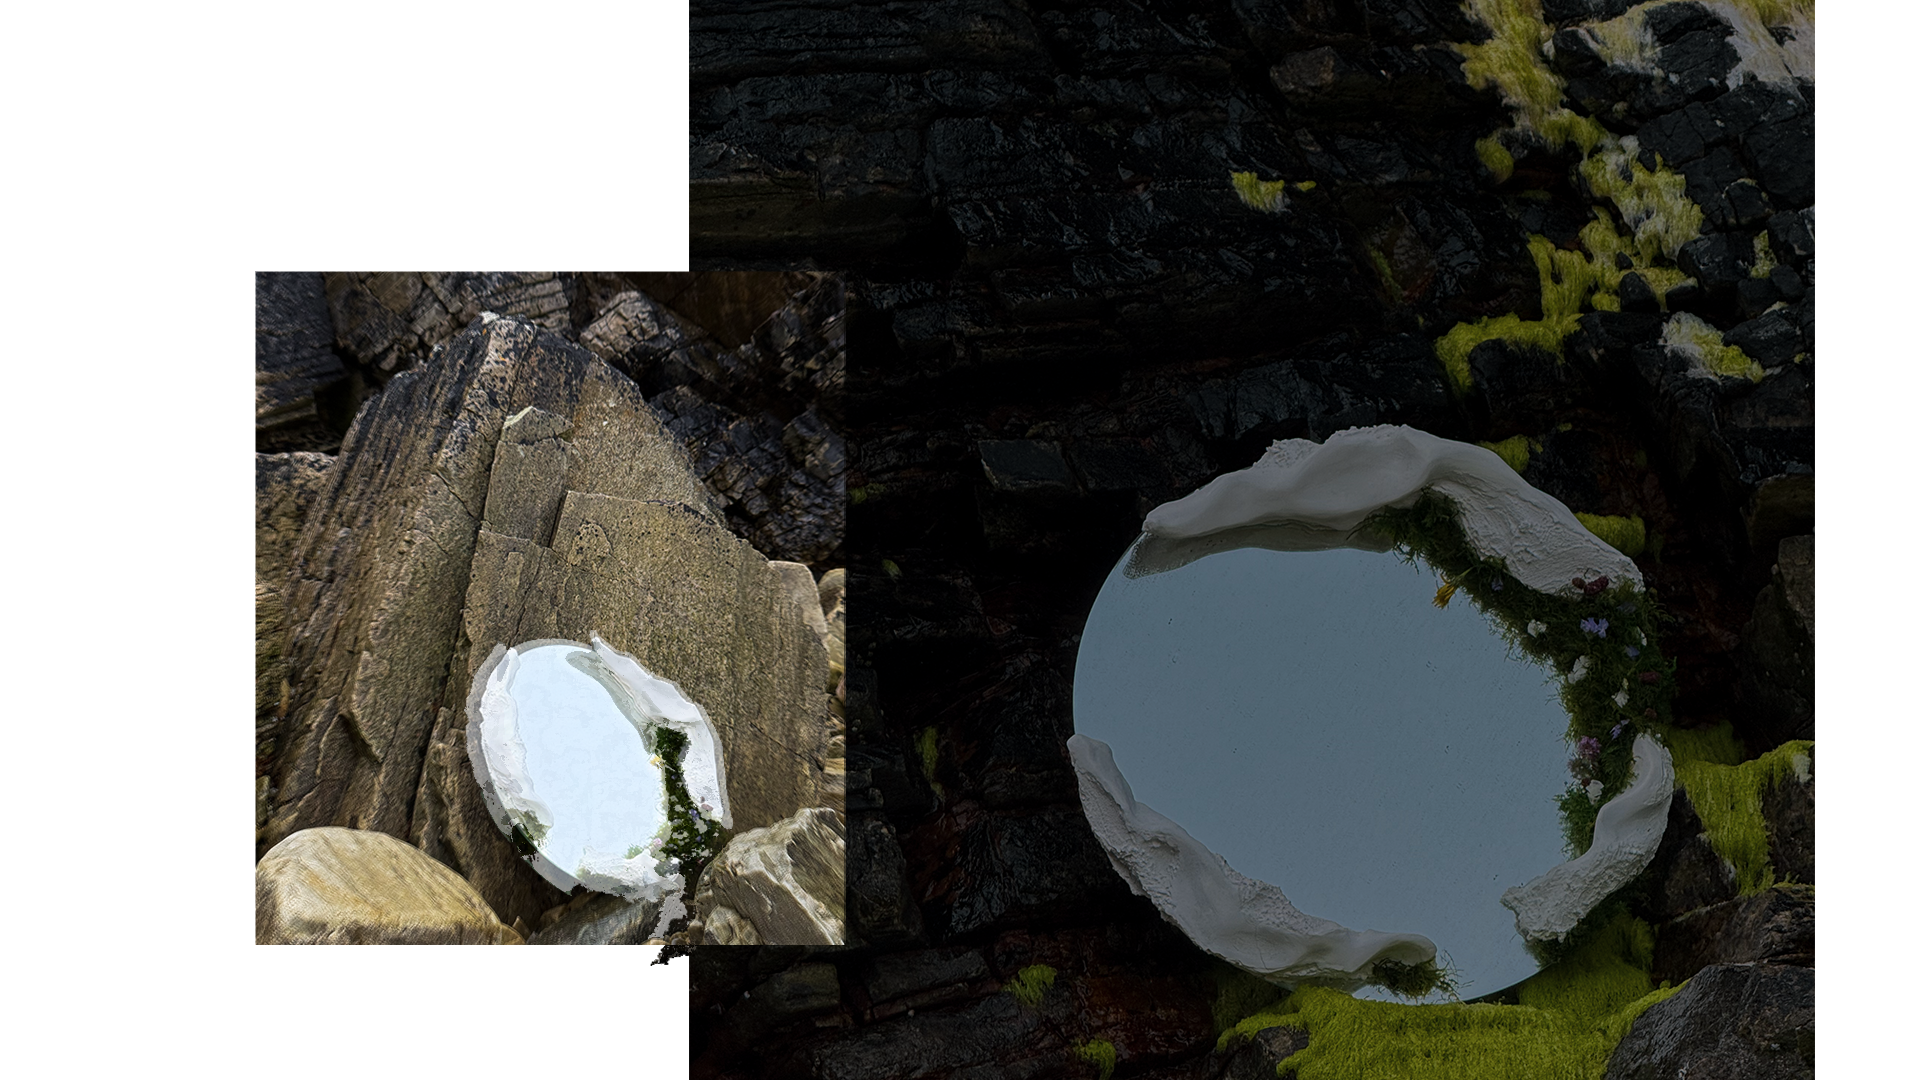
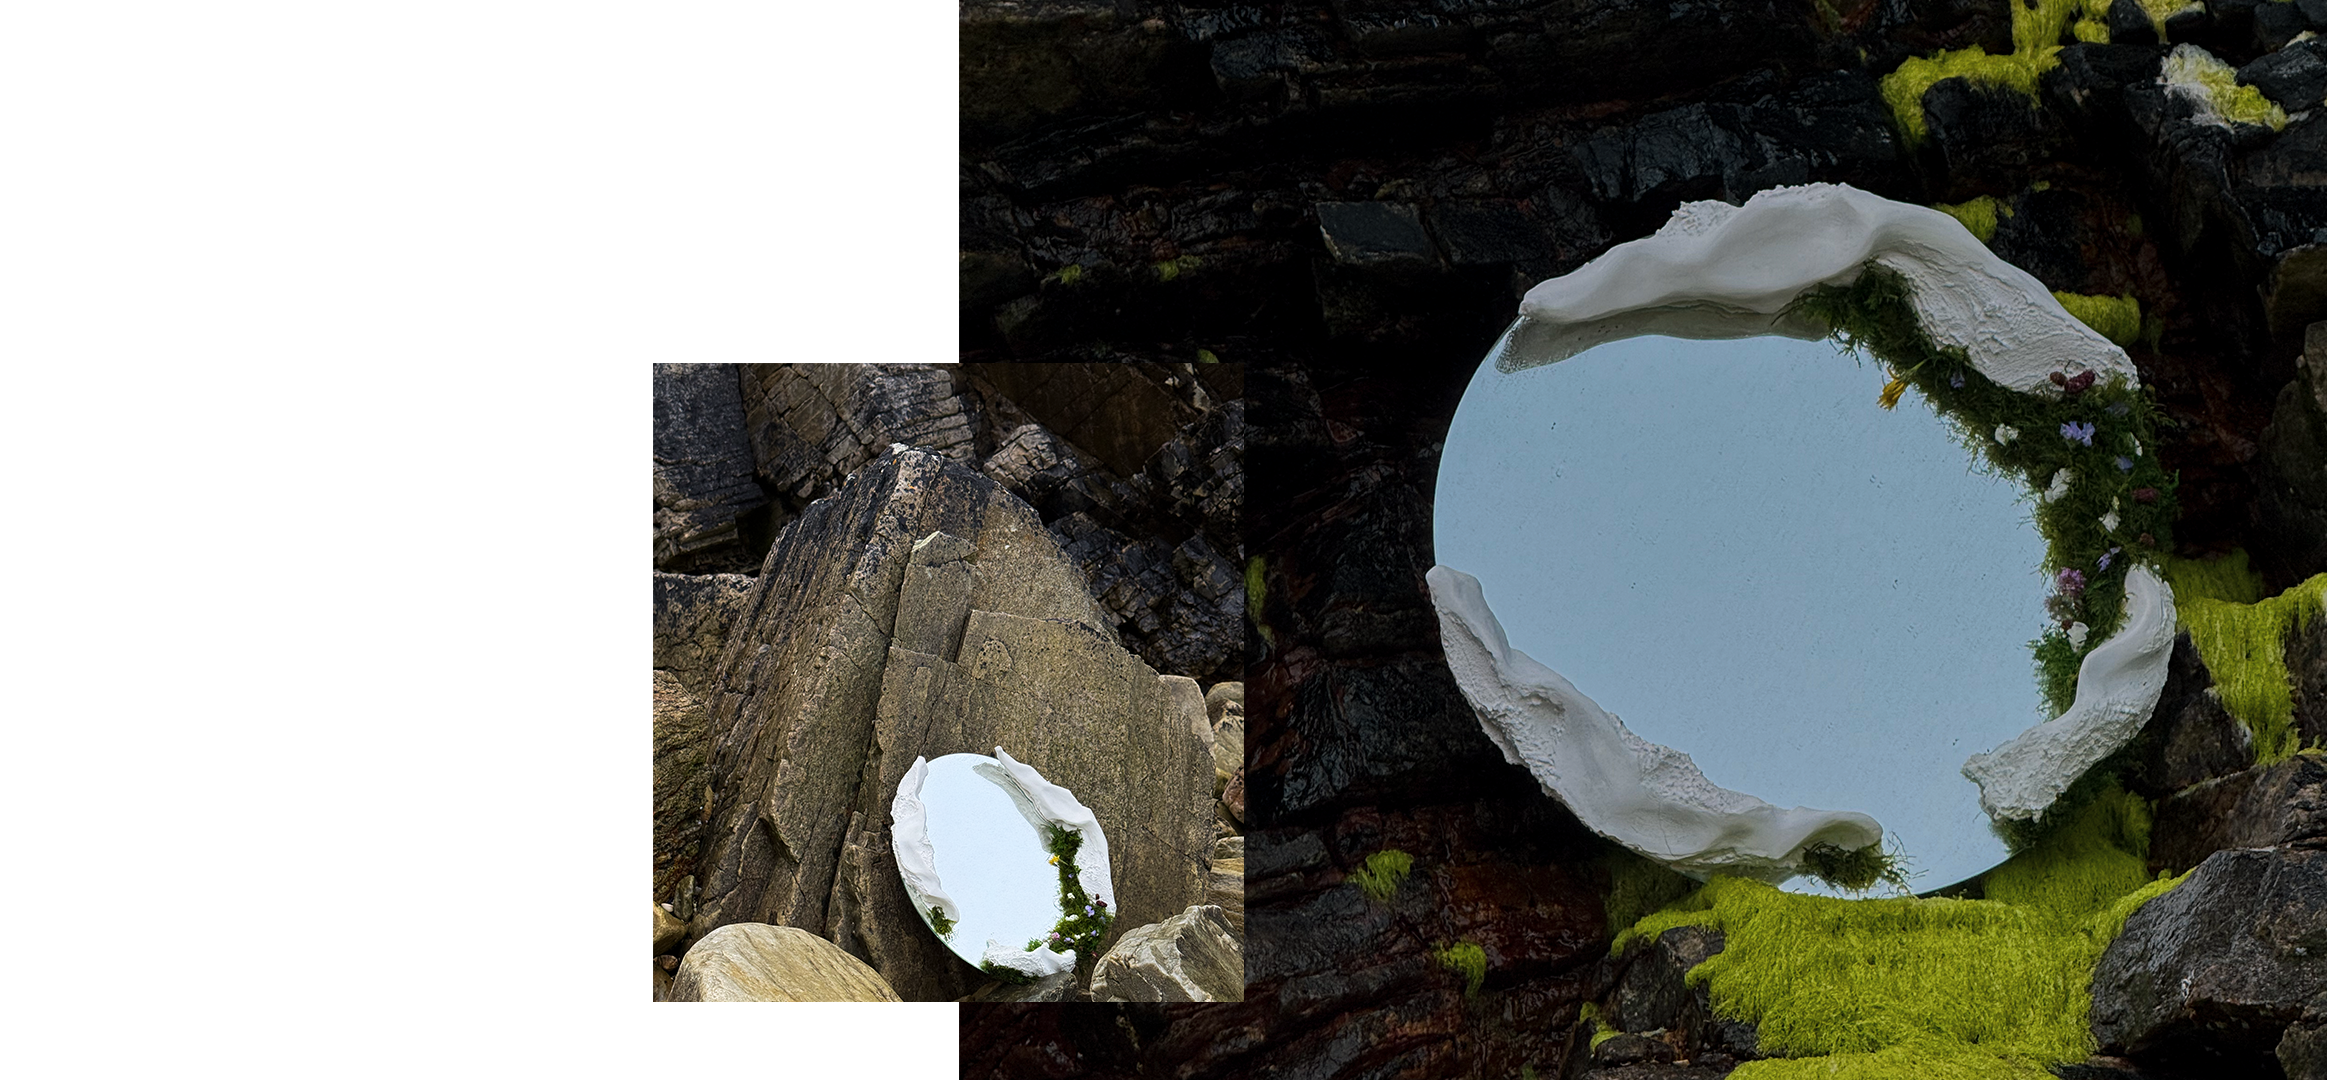
style(home): fit the new 2.png and 3.png, use малі6 for the etching
Key change:
- Section 2 inset: the window takes the new 2.png inset photo's own 591:639 proportions (width 34.694% -> 35.657%), and the plate is placed so exactly that photo (px 653-1244 x 363-1002 of 2327 x 1080) fills it, with no stretching or crop
- Section 3: the new 3.png is the studio photo alone and now fills the left window (58.2% of the page, full height) at its own proportions, trimmed only slightly at top and bottom
- The etching below the last paragraph now comes from малі6.png (added), filling a window with its 3522:2130 ratio
- Update image sizes hints to the new widths, and the studio photo's alt text (sketches A and B; F01 is no longer in the photo)
- Remove the section 2 scale bar (ulsterScale)

diff --git a/src/app/(site)/page.module.css b/src/app/(site)/page.module.css
@@ -146,9 +146,9 @@
 /*
  * Both photos are shown as plates inside crop windows at the PDF's frames.
  * The dark photo is the PDF's own crop of IMG_9253-2 (px 152,1542 of the 3024px original at
- * 0.367 pt/px). The inset comes from the 2.png composite, whose inset
- * (px 256-844 x 272-944) is framed slightly tighter than the PDF's, so it is
- * scaled just enough to cover its frame.
+ * 0.367 pt/px). The inset comes from the 2.png composite (2327 x 1080), whose
+ * inset photo is px 653-1244 x 363-1002; the window has that photo's
+ * proportions and the plate is placed so exactly that photo fills it.
  */
 .ulsterBase,
 .ulsterInset {
@@ -176,18 +176,20 @@
     height: 175.78%;
 }
 
+/* Height and position as the PDF; width set by the photo's 591:639 ratio. */
 .ulsterInset {
     left: 8.095%;
     top: 35.185%;
-    width: 34.694%;
+    width: 35.657%;
     height: 54.52%;
 }
 
+/* 2327/591 and 1080/639 of the window, offset by the inset's 653 and 363 px. */
 .ulsterInsetPlate {
-    left: -43.811%;
-    top: -41.858%;
-    width: 327.49%;
-    height: 165.76%;
+    left: -110.49%;
+    top: -56.808%;
+    width: 393.74%;
+    height: 169.01%;
 }
 
 .ulsterScale {
@@ -259,10 +261,10 @@
 /* ---- Section 3: "I am finding these objects..." ------------------------ */
 
 /*
- * 3.png holds the studio photo (specimen sketches A/B and F01 already placed
- * on it) and, at its bottom right, the etching. The photo window shows it at
- * 0.5397 pt/px from the top-left; the etching window shows the same file at
- * 0.3701 pt/px so the etching lands in its PDF frame below the paragraphs.
+ * 3.png is the studio photo alone (the A/B sketch already placed on it); it
+ * fills the left window, a little over half the page, trimmed only at the
+ * top and bottom. The etching is its own file, малі6.png, filling its window
+ * below the paragraphs.
  */
 .studioPhoto,
 .studioEtching {
@@ -283,29 +285,22 @@
 }
 
 .studioPhotoPlate {
-    left: 0;
-    top: 0;
-    width: 179.43%;
-    height: 100%;
+    inset: 0;
 }
 
 /*
- * Shrunk (x0.852, bottom-left corner fixed) from the PDF's 28.81% x 24.226%
- * frame at 72.407%, so it starts one blank line below the description,
- * which ends at ~73.9% of the section.
+ * Starts one blank line below the description, which ends at ~73.9% of the
+ * section; the height gives the window малі6.png's 3522:2130 ratio.
  */
 .studioEtching {
     left: 63.928%;
     top: 76%;
     width: 24.537%;
-    height: 20.633%;
+    height: 20.986%;
 }
 
 .studioEtchingPlate {
-    left: -148.34%;
-    top: -155.37%;
-    width: 248.61%;
-    height: 283.1%;
+    inset: 0;
 }
 
 /*

diff --git a/src/app/(site)/page.tsx b/src/app/(site)/page.tsx
@@ -83,12 +83,9 @@ export default async function Home() {
                             <HomeImage
                                 src="/HomePhotos/2.png"
                                 alt="Small sculptural mirror leaning against a weathered boulder among coastal rocks"
-                                sizes="114vw"
+                                sizes="141vw"
                             />
                         </div>
-                    </div>
-                    <div className={styles.ulsterScale}>
-                        <HomeImage src={journalImage("мала21.png")} alt="" sizes="12vw" />
                     </div>
                 </div>
 
@@ -118,17 +115,17 @@ export default async function Home() {
                         <div className={styles.studioPhotoPlate}>
                             <HomeImage
                                 src="/HomePhotos/3.png"
-                                alt="Hands shaping a plaster mirror frame on a wooden worktable, beside specimen sketches A, B and F01"
-                                sizes="105vw"
+                                alt="Hands shaping a plaster mirror frame on a wooden worktable, beside specimen sketches A and B"
+                                sizes="59vw"
                             />
                         </div>
                     </div>
                     <div className={styles.studioEtching}>
                         <div className={styles.studioEtchingPlate}>
                             <HomeImage
-                                src="/HomePhotos/3.png"
+                                src={journalImage("малі6.png")}
                                 alt="Pencil etching of coastal cliffs and sea caves, viewed north-east from the dune ridge at Maghera Strand, Co. Donegal"
-                                sizes="72vw"
+                                sizes="25vw"
                             />
                         </div>
                     </div>
